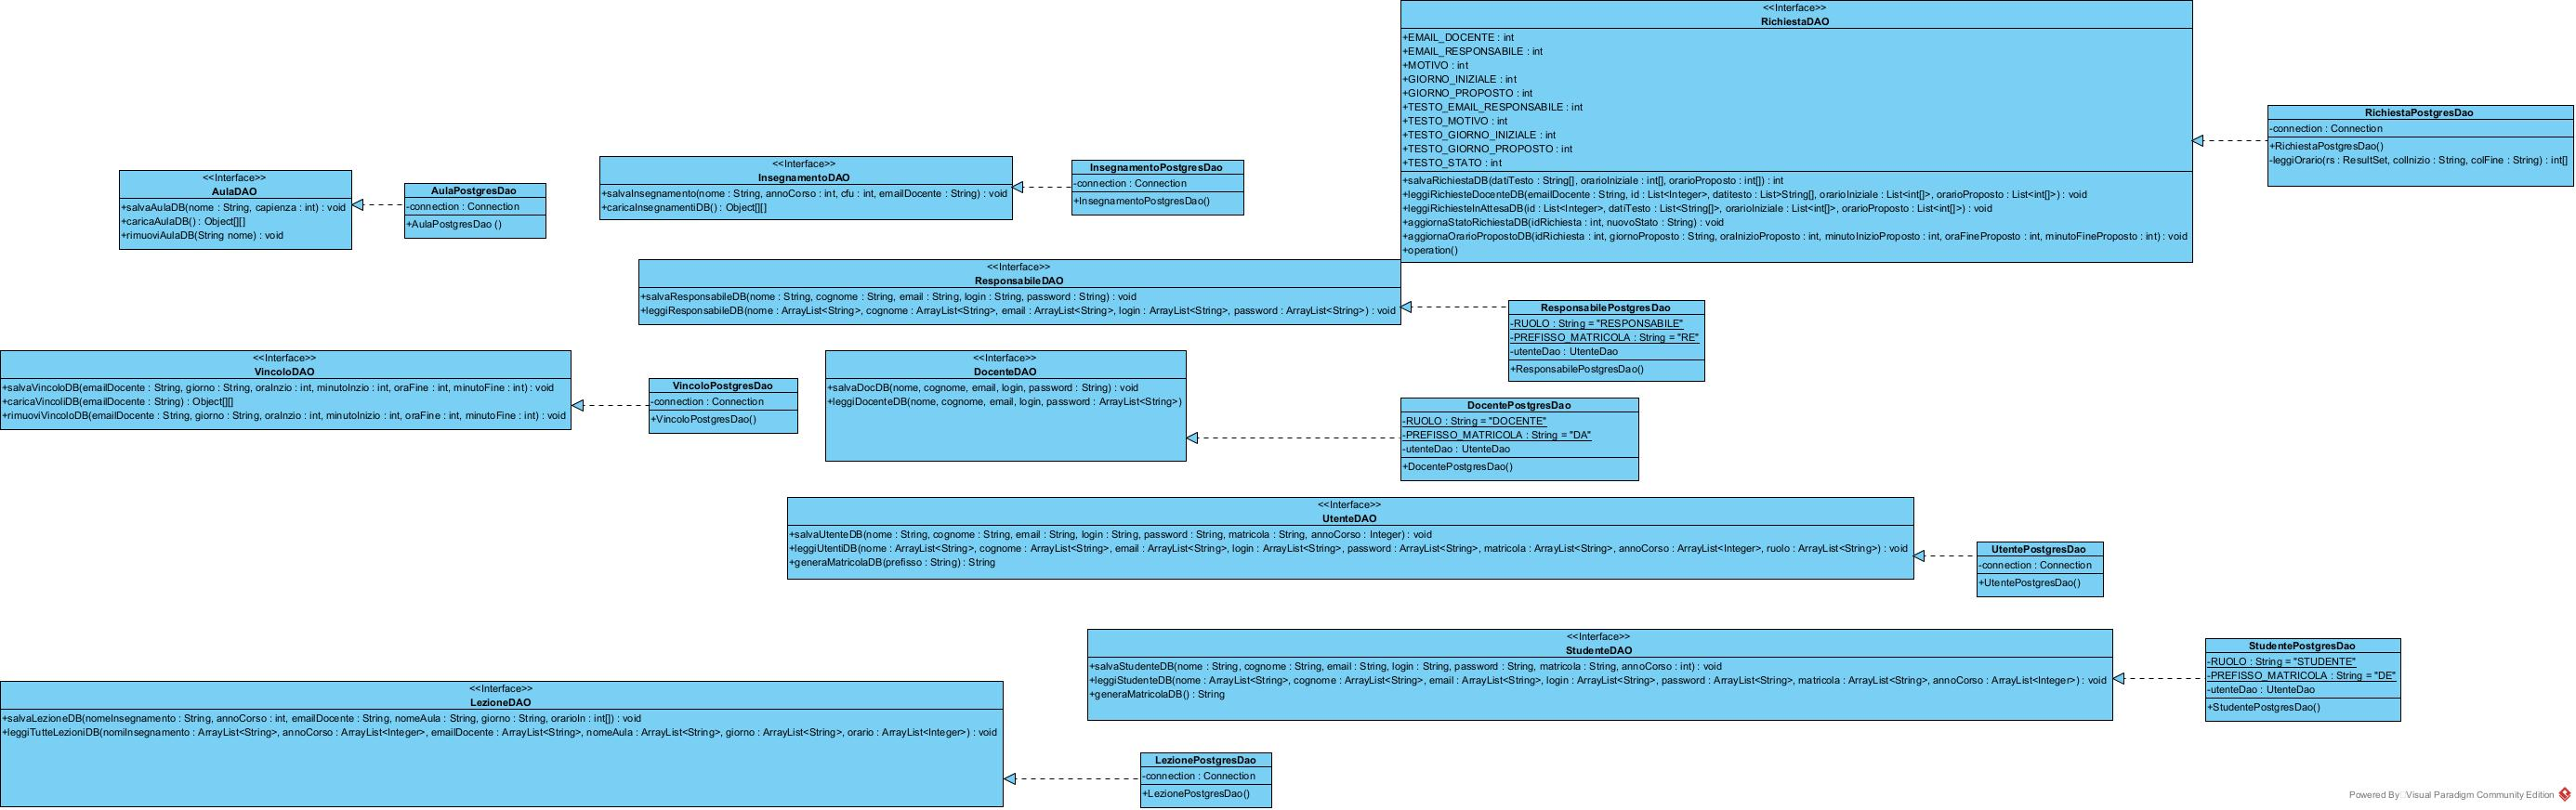
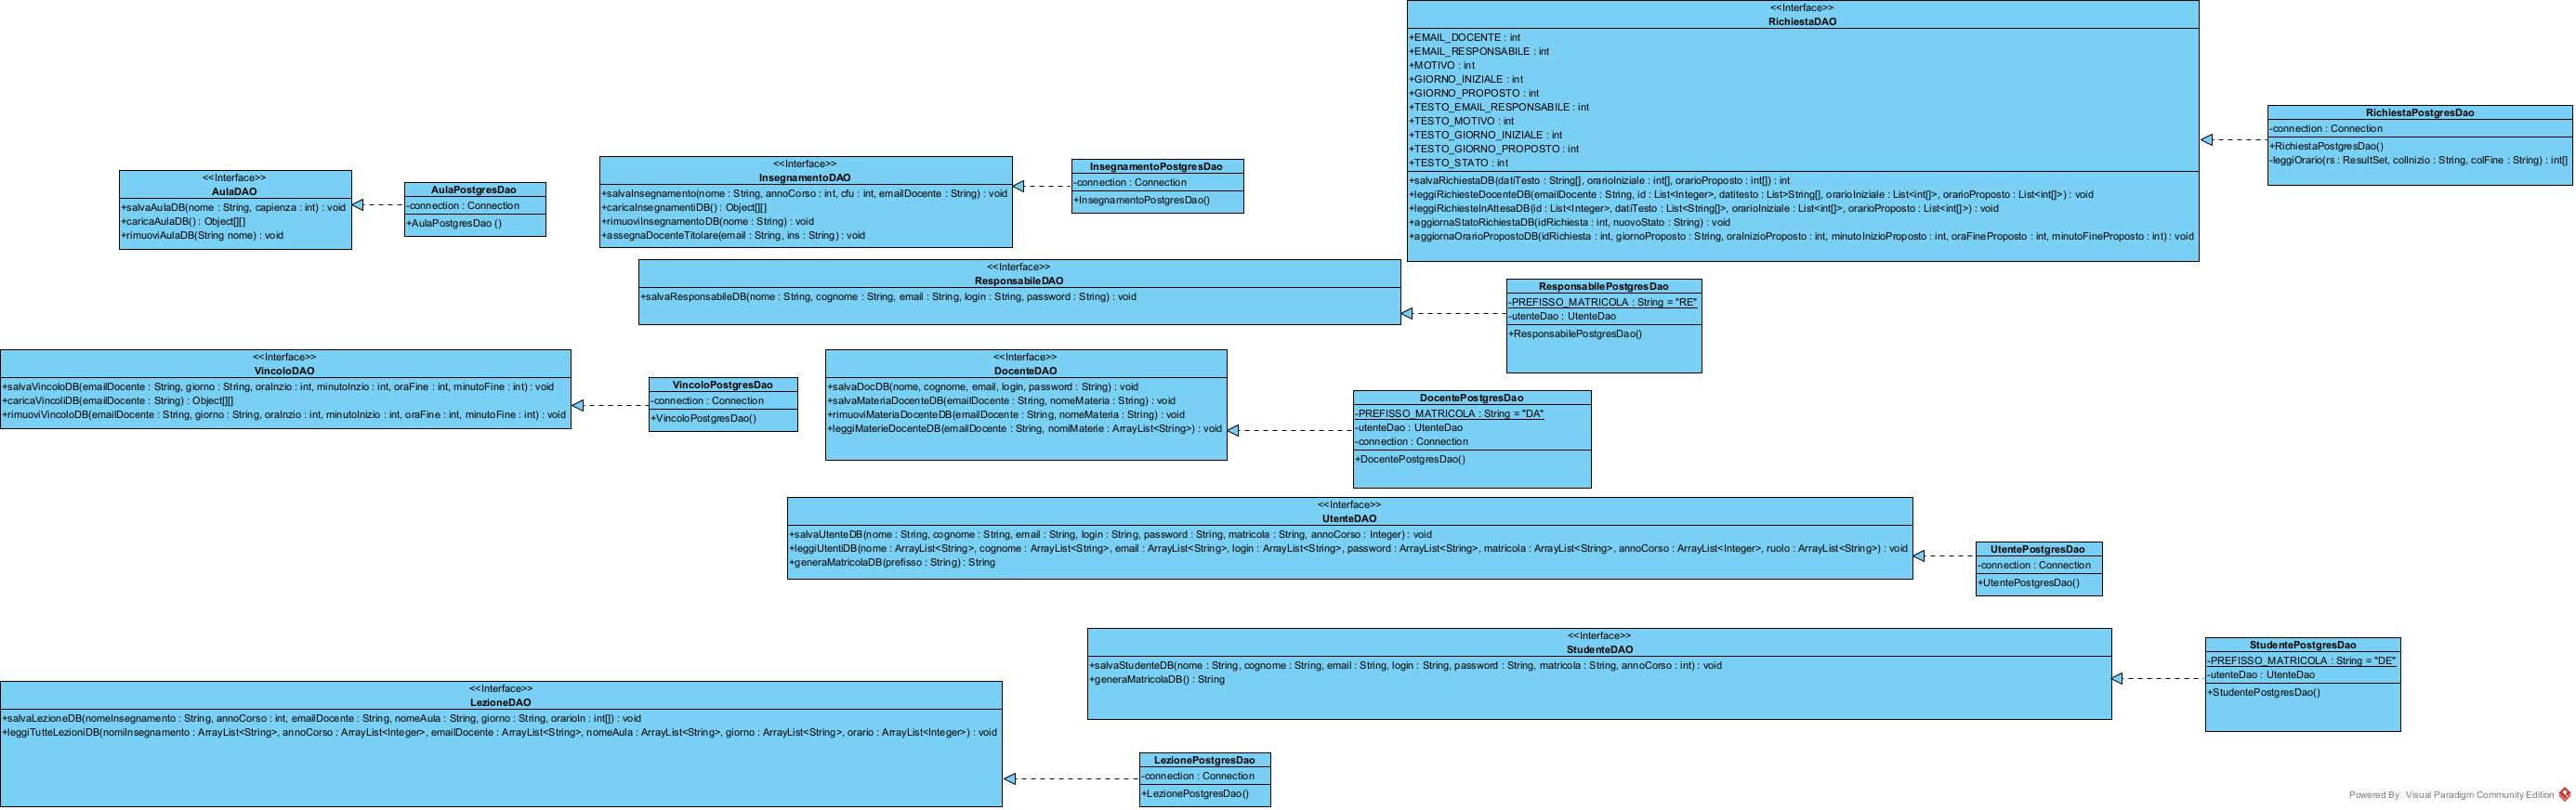
Aggiornamento DAO

diff --git a/src/main/java/implementazionedao/StudentePostgresDao.java b/src/main/java/implementazionedao/StudentePostgresDao.java
@@ -13,8 +13,7 @@ import java.util.ArrayList;
  * i risultati con ruolo {@code "STUDENTE"}.</p>
  */
 public class StudentePostgresDao implements StudenteDAO {
-    /** Ruolo con cui gli studenti sono salvati nella tabella utente. */
-    private static final String RUOLO = "STUDENTE";
+
     
     /** DAO della tabella unica utente a cui vengono delegate lettura e scrittura. */
     private final UtenteDAO utenteDao;
@@ -47,46 +46,5 @@ public class StudentePostgresDao implements StudenteDAO {
     public void salvaStudenteDB(String nome, String cognome, String email, String login, String password, String matricola, int annoCorso) throws SQLException {
         utenteDao.salvaUtenteDB(nome, cognome, email, login, password, matricola, annoCorso);
     }
-
-    /**
-     * Recupera tutti gli studenti: legge tutti gli utenti tramite
-     * {@link UtenteDAO#leggiUtentiDB} e filtra le righe con ruolo
-     * {@code "STUDENTE"}, popolando in modo posizionale le liste fornite.
-     *
-     * @param nome      la lista in cui verranno aggiunti i nomi degli studenti recuperati.
-     * @param cognome   la lista in cui verranno aggiunti i cognomi degli studenti recuperati.
-     * @param email     la lista in cui verranno aggiunte le email degli studenti recuperati.
-     * @param login     la lista in cui verranno aggiunti gli username degli studenti recuperati.
-     * @param password  la lista in cui verranno aggiunte le password degli studenti recuperati.
-     * @param matricola la lista in cui verranno aggiunte le matricole degli studenti recuperati.
-     * @param annoCorso la lista in cui verranno aggiunti gli anni di corso degli studenti recuperati.
-     * @throws SQLException se si verifica un errore SQL durante l'accesso al database o durante la lettura dei dati.
-     */
-    @Override
-    public void leggiStudenteDB(ArrayList<String> nome, ArrayList<String> cognome, ArrayList<String> email, ArrayList<String> login, ArrayList<String> password, ArrayList<String> matricola, ArrayList<Integer> annoCorso) throws SQLException {
-        ArrayList<String> nomi = new ArrayList<>();
-        ArrayList<String> cognomi = new ArrayList<>();
-        ArrayList<String> emails = new ArrayList<>();
-        ArrayList<String> logins = new ArrayList<>();
-        ArrayList<String> passwords = new ArrayList<>();
-        ArrayList<String> matricole = new ArrayList<>();
-        ArrayList<Integer> anniCorso = new ArrayList<>();
-        ArrayList<String> ruoli = new ArrayList<>();
-        utenteDao.leggiUtentiDB(nomi, cognomi, emails, logins, passwords, matricole, anniCorso, ruoli);
-
-        for (int i = 0; i < ruoli.size(); i++) {
-            if (RUOLO.equalsIgnoreCase(ruoli.get(i))) {
-                nome.add(nomi.get(i));
-                cognome.add(cognomi.get(i));
-                email.add(emails.get(i));
-                login.add(logins.get(i));
-                password.add(passwords.get(i));
-                matricola.add(matricole.get(i));
-                Integer anno = anniCorso.get(i);
-                annoCorso.add(anno != null ? anno : 1);
-            }
-        }
-    }
-
 
 }

diff --git a/src/main/java/implementazionedao/DocentePostgresDao.java b/src/main/java/implementazionedao/DocentePostgresDao.java
@@ -20,8 +20,6 @@ import java.util.ArrayList;
  */
 public class DocentePostgresDao implements DocenteDAO {
 
-    /** Ruolo con cui i docenti sono salvati nella tabella utente. */
-    private static final String RUOLO = "DOCENTE";
     /** Prefisso delle matricole dei docenti. */
     private static final String PREFISSO_MATRICOLA = "DA";
 
@@ -62,40 +60,6 @@ public class DocentePostgresDao implements DocenteDAO {
         utenteDao.salvaUtenteDB(nome, cognome, email, login, password, matricola, null);
     }
 
-    /**
-     * Recupera tutti i docenti: legge tutti gli utenti tramite
-     * {@link UtenteDAO#leggiUtentiDB} e filtra le righe con ruolo {@code "DOCENTE"}.
-     *
-     * @param nome la lista dei nomi dei docenti presenti nel db.
-     * @param cognome la lista dei  cognomi dei docenti presenti nel db.
-     * @param email la lista delle email dei docenti presenti nel db.
-     * @param login la lista degli username dei docenti presenti nel db.
-     * @param password la lista delle password dei docenti presenti nel db.
-     * @throws SQLException quando la lettura nel database fallisce.
-     */
-    @Override
-    public void leggiDocenteDB(ArrayList<String> nome, ArrayList<String> cognome, ArrayList<String> email, ArrayList<String> login, ArrayList<String> password) throws SQLException {
-        ArrayList<String> nomi = new ArrayList<>();
-        ArrayList<String> cognomi = new ArrayList<>();
-        ArrayList<String> emails = new ArrayList<>();
-        ArrayList<String> logins = new ArrayList<>();
-        ArrayList<String> passwords = new ArrayList<>();
-        ArrayList<String> matricole = new ArrayList<>();
-        ArrayList<Integer> anniCorso = new ArrayList<>();
-        ArrayList<String> ruoli = new ArrayList<>();
-        utenteDao.leggiUtentiDB(nomi, cognomi, emails, logins, passwords, matricole, anniCorso, ruoli);
-
-        for (int i = 0; i < ruoli.size(); i++) {
-            if (RUOLO.equalsIgnoreCase(ruoli.get(i))) {
-                nome.add(nomi.get(i));
-                cognome.add(cognomi.get(i));
-                email.add(emails.get(i));
-                login.add(logins.get(i));
-                password.add(passwords.get(i));
-                // matricola e annoCorso vengono ignorati: per ora il docente non li visualizza.
-            }
-        }
-    }
 
     /**
      * Salva nella tabella {@code materiadocente} l'associazione tra il

diff --git a/src/main/java/implementazionedao/ResponsabilePostgresDao.java b/src/main/java/implementazionedao/ResponsabilePostgresDao.java
@@ -16,8 +16,6 @@ import java.util.ArrayList;
  */
 public class ResponsabilePostgresDao implements ResponsabileDAO {
 
-    /** Ruolo con cui i responsabili sono salvati nella tabella utente. */
-    private static final String RUOLO = "RESPONSABILE";
     /** Prefisso delle matricole dei responsabili. */
     private static final String PREFISSO_MATRICOLA = "RE";
 
@@ -53,38 +51,4 @@ public class ResponsabilePostgresDao implements ResponsabileDAO {
         utenteDao.salvaUtenteDB(nome, cognome, email, login, password, matricola, null);
     }
 
-    /**
-     * Recupera tutti i responsabili: legge tutti gli utenti tramite
-     * {@link UtenteDAO#leggiUtentiDB} e filtra le righe con ruolo {@code "RESPONSABILE"}.
-     *
-     * @param nome la lista dei nomi dei responsabili presenti nel db.
-     * @param cognome la lista dei  cognomi dei responsabili presenti nel db.
-     * @param email la lista delle email dei responsabili presenti nel db.
-     * @param login la lista degli username dei responsabili presenti nel db.
-     * @param password la lista delle password dei responsabili presenti nel db.
-     * @throws java.sql.SQLException Throws exception quando la lettura nel database non va a buon fine.
-     */
-    @Override
-    public void leggiResponsabileDB(ArrayList<String> nome, ArrayList<String> cognome, ArrayList<String> email, ArrayList<String> login, ArrayList<String> password) throws java.sql.SQLException {
-        ArrayList<String> nomi = new ArrayList<>();
-        ArrayList<String> cognomi = new ArrayList<>();
-        ArrayList<String> emails = new ArrayList<>();
-        ArrayList<String> logins = new ArrayList<>();
-        ArrayList<String> passwords = new ArrayList<>();
-        ArrayList<String> matricole = new ArrayList<>();
-        ArrayList<Integer> anniCorso = new ArrayList<>();
-        ArrayList<String> ruoli = new ArrayList<>();
-        utenteDao.leggiUtentiDB(nomi, cognomi, emails, logins, passwords, matricole, anniCorso, ruoli);
-
-        for (int i = 0; i < ruoli.size(); i++) {
-            if (RUOLO.equalsIgnoreCase(ruoli.get(i))) {
-                nome.add(nomi.get(i));
-                cognome.add(cognomi.get(i));
-                email.add(emails.get(i));
-                login.add(logins.get(i));
-                password.add(passwords.get(i));
-                // matricola e annoCorso vengono ignorati: per ora il responsabile non li visualizza.
-            }
-        }
-    }
 }

diff --git a/src/main/java/dao/ResponsabileDAO.java b/src/main/java/dao/ResponsabileDAO.java
@@ -27,15 +27,6 @@ public interface ResponsabileDAO {
     void salvaResponsabileDB(String nome, String cognome, String email,
                              String login, String password) throws SQLException;
 
-    /**Metodo da implementare in ResponsabilePostgreDao per recuperare i dati di un Responsabile registrato.
-     *
-     * @param  nome Nome di battesimo del Responsabile.
-     * @param cognome cognome di battesimo del Responsabile.
-     * @param email l'email del Responsabile.
-     * @param login lusername con cui accede il Responsabile al sistema.
-     * @param password password segreta del Responsabile per accedere.
-     */
-    void leggiResponsabileDB(ArrayList<String> nome, ArrayList<String> cognome, ArrayList<String> email,
-                             ArrayList<String> login, ArrayList<String> password) throws SQLException;
+
 
 }

diff --git a/src/main/java/dao/DocenteDAO.java b/src/main/java/dao/DocenteDAO.java
@@ -28,16 +28,6 @@ public interface DocenteDAO {
     void salvaDocDB(String nome, String cognome, String email,
                     String login, String password)throws SQLException;
 
-    /**Metodo da implementare in DocentePostgreDao per recuperare i dati di un docente registrato.
-     *
-     * @param  nome Nome di battesimo del docente.
-     * @param cognome cognome di battesimo del docente.
-     * @param email l'email con cui si registra il docente al sistema.
-     * @param login login con cui accede il docente al sistema.
-     * @param password password segreta del docente per accedere
-     */
-    void leggiDocenteDB(ArrayList<String> nome, ArrayList<String> cognome, ArrayList<String> email,
-                        ArrayList<String> login, ArrayList<String> password)throws SQLException;
 
     /**Salva nel database l'associazione tra il docente e una materia che può insegnare.
      * <p>Viene invocato sia in fase di registrazione (quando il docente appena

diff --git a/src/main/java/dao/RichiestaDAO.java b/src/main/java/dao/RichiestaDAO.java
@@ -69,7 +69,7 @@ public interface RichiestaDAO {
      *                              minutoInizio, oraFine, minutoFine]}
      * @param orarioProposto        lista in cui inserire gli orari proposti, nello
      *                              stesso formato di {@code orarioIniziale}
-     * @throws Exception se la lettura dal database fallisce
+     * @throws SQLException se la lettura dal database fallisce
      */
     void leggiRichiesteDocenteDB(String emailDocente,
                                  List<Integer> id,
@@ -85,9 +85,9 @@ public interface RichiestaDAO {
      * qualsiasi responsabile loggato possa vedere e gestire tutte le richieste
      * pendenti. Le liste sono parallele per indice.
      * @param id                    lista in cui inserire gli id delle richieste
-     * @throws Exception se la lettura dal database fallisce
+     * @throws SQLException se la lettura dal database fallisce
      */
-    public void leggiRichiesteInAttesaDB(List<Integer> id,
+    void leggiRichiesteInAttesaDB(List<Integer> id,
                                          List<String[]> datiTesto,
                                          List<int[]> orarioIniziale,
                                          List<int[]> orarioProposto) throws SQLException;
@@ -98,7 +98,7 @@ public interface RichiestaDAO {
      *
      * @param idRichiesta id della richiesta da aggiornare
      * @param nuovoStato  nuovo stato: {@code 'IN_ATTESA'}, {@code 'APPROVATA'} o {@code 'RIFIUTATA'}
-     * @throws Exception se l'aggiornamento fallisce (ad es. stato non ammesso dal CHECK)
+     * @throws SQLException se l'aggiornamento fallisce (ad es. stato non ammesso dal CHECK)
      */
     void aggiornaStatoRichiestaDB(int idRichiesta, String nuovoStato) throws SQLException;
 
@@ -112,7 +112,7 @@ public interface RichiestaDAO {
      * @param minutoInizioProposto nuovo minuto di inizio proposto
      * @param oraFineProposto      nuova ora di fine proposta
      * @param minutoFineProposto   nuovo minuto di fine proposto
-     * @throws Exception se l'aggiornamento fallisce
+     * @throws SQLException se l'aggiornamento fallisce
      */
     void aggiornaOrarioPropostoDB(int idRichiesta, String giornoProposto,
                                   int oraInizioProposto, int minutoInizioProposto,

diff --git a/src/main/java/dao/StudenteDAO.java b/src/main/java/dao/StudenteDAO.java
@@ -28,12 +28,7 @@ public interface StudenteDAO {
      void salvaStudenteDB(String nome, String cognome, String email,
                           String login, String password,String matricola, int annoCorso) throws SQLException;
 
-    /**Recupera i dati di tutti gli studenti registrati.
-     * Le liste passate come parametro vengono riempite in modo parallelo
-     * (stesso indice = stesso studente).
-     */
-    void leggiStudenteDB(ArrayList<String> nome, ArrayList<String> cognome, ArrayList<String> email,
-                         ArrayList<String> login, ArrayList<String> password,ArrayList<String> matricola,ArrayList<Integer> annoCorso) throws SQLException;
+
 
 
 